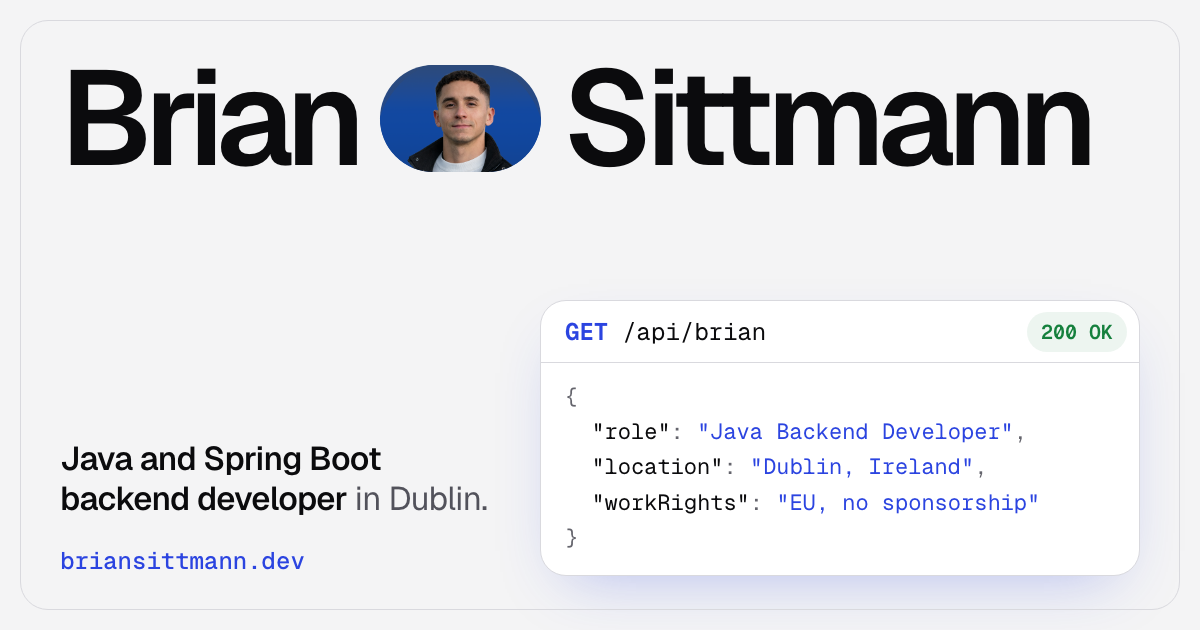
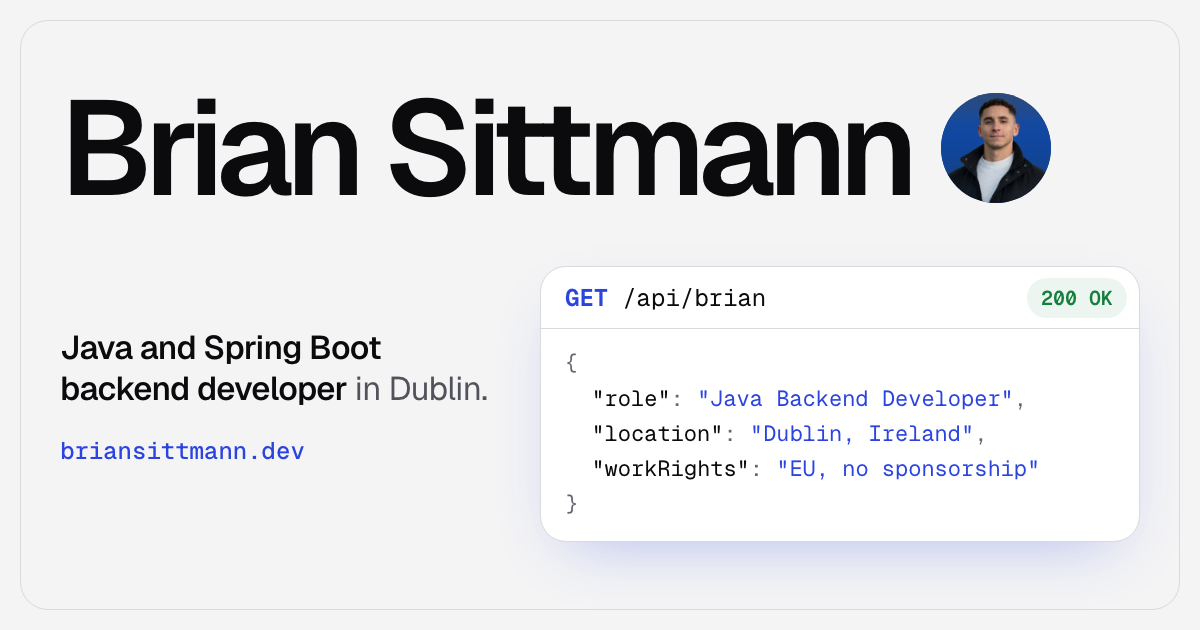
feat: rework the Open Graph image layout
The name runs as plain text with the portrait as a circle closing the line,
more room at the top, the block centred, and the intro starting where the
card's request bar ends.

diff --git a/design/og/og.html b/design/og/og.html
@@ -1,7 +1,7 @@
 <!doctype html>
 <!--
   Open Graph image (1200x630) for LinkedIn and other link previews. Same look as the hero: the name at poster
-  scale with the portrait set into it, the intro, and the API card answering the recruiter's questions.
+  scale with the portrait closing the line, the intro, and the API card answering the recruiter's questions.
   Exported by `node shot.cjs` to public/og.{en,es}.png. LinkedIn shows it at about 550px wide, so nothing under 24px.
 -->
 <html><head><meta charset="utf-8">
@@ -11,16 +11,19 @@
 *{margin:0;padding:0;box-sizing:border-box}
 html,body{width:1200px;height:630px;overflow:hidden}
 body{font-family:Geist,sans-serif;-webkit-font-smoothing:antialiased;color:#0b0b0d;background:#f4f4f5;
-  padding:58px 60px 54px;position:relative;display:flex;flex-direction:column;justify-content:space-between}
+  padding:0 60px;position:relative;display:flex;flex-direction:column;justify-content:center;gap:50px}
 /* Thin frame like the site's bordered column. */
 body::after{content:"";position:absolute;inset:20px;border:1px solid #d9d9de;border-radius:28px;pointer-events:none}
 
 h1{display:flex;align-items:center;gap:.16em;font-size:134px;line-height:.9;font-weight:600;letter-spacing:-.055em;padding-bottom:.06em}
-.pill{display:inline-block;height:.8em;width:1.2em;border-radius:999px;overflow:hidden;flex-shrink:0;
+/* The portrait closes the line, as a circle a little taller than the capitals. */
+.pill{display:inline-block;height:.82em;width:.82em;border-radius:50%;overflow:hidden;flex-shrink:0;margin-left:.06em;
   background:linear-gradient(#2e4a79,#1447a0)}
 .pill img{width:100%;height:100%;object-fit:cover;object-position:50% 8%;transform:scale(1.06)}
 
-.row{display:grid;grid-template-columns:1fr 600px;gap:40px;align-items:end}
+.row{display:grid;grid-template-columns:1fr 600px;gap:40px;align-items:start}
+/* The intro starts where the card's request bar ends. */
+.lead{padding-top:62px}
 .intro{font-size:33px;line-height:1.22;letter-spacing:-.02em;color:#52525b}
 .intro strong{font-weight:550;color:#0b0b0d}
 .url{margin-top:26px;font-family:"Geist Mono",monospace;font-size:24px;color:#2b44e0;font-weight:500}
@@ -34,9 +37,9 @@ pre{font-family:inherit;font-size:22px;line-height:1.6;padding:16px 24px 20px;wh
 .k{color:#0b0b0d}.p{color:#64646c}.s{color:#2b44e0}
 </style></head>
 <body>
-<h1><span>Brian</span><span class="pill"><img src="../../src/assets/heroLogoLight.png" alt=""></span><span>Sittmann</span></h1>
+<h1><span>Brian Sittmann</span><span class="pill"><img src="../../src/assets/heroLogoLight.png" alt=""></span></h1>
 <div class="row">
-  <div>
+  <div class="lead">
     <p class="intro" id="intro"></p>
     <p class="url">briansittmann.dev</p>
   </div>
